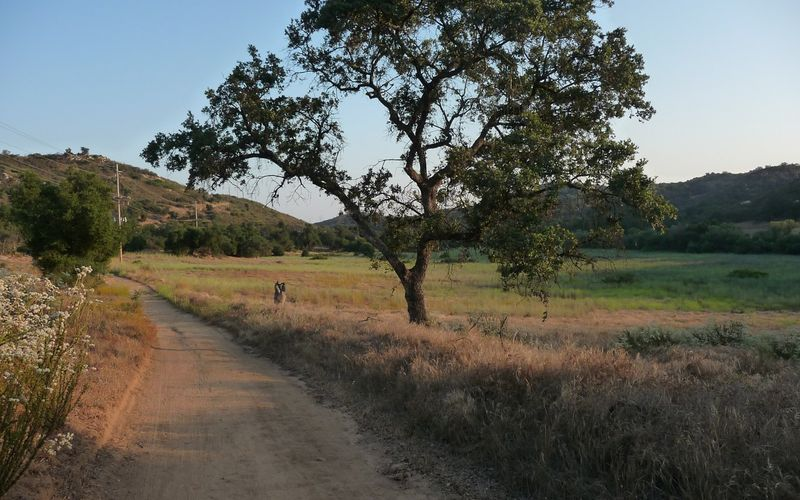
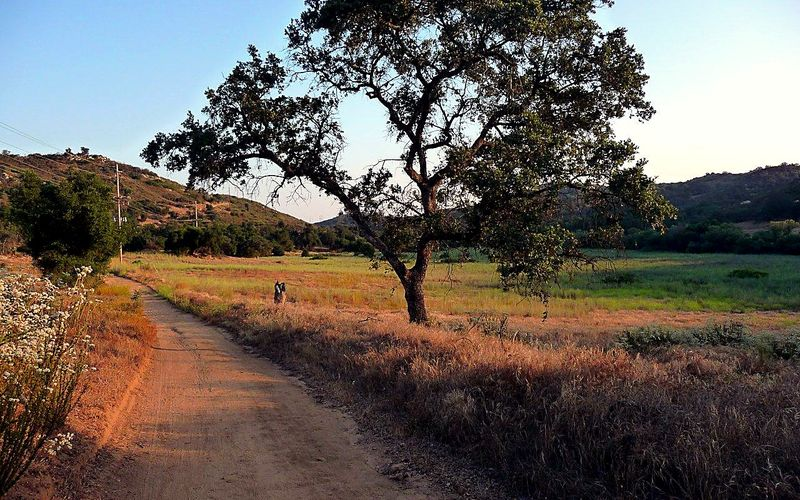
Grade the Valley Center photograph, and fix the stale-derivative bug it exposed
The Valley Center source is a 2008 Panasonic Lumix TZ4 frame and flat
straight out of the camera. Levels, contrast, saturation and a light
unsharp mask: the response curve applied to pixels that were already in the
frame, which is what a darkroom print does. Nothing added, nothing removed.
The field reads green, the golden-hour light is actually present, and the
hills separate from the sky.

Both CC BY and CC BY-SA require indicating that changes were made, not just
naming the author, so every credit now ends with what was done to the
frame. Eleven say "Cropped to fit" — cropping to a 16:10 hero is itself a
change — and Valley Center says "Cropped to fit; colour and contrast
adjusted."

The bug this turned up
----------------------
Replacing valley-center.jpg in place left the OLD valley-center.webp beside
it. components.picture() emits the WebP first, so every browser that can
read WebP would have got the ungraded frame while the JPEG fallback nobody
looks at was correct. Silent, and invisible in the markup.

already_done() skipped the file because a .webp existed. It never asked
whether that .webp was still the right one.

Fixed with a content-hash manifest at site/assets/img/.optimized.json,
committed alongside the images. Two things were tried and rejected first:

  mtime comparison — reintroduces the exact churn already_done() exists to
  prevent. git writes files at checkout time in arbitrary order, so on a
[…]

diff --git a/site/neighborhoods/escondido.html b/site/neighborhoods/escondido.html
@@ -391,7 +391,7 @@
       &rsaquo; Escondido
     </nav>
     <p class="updated">Written by <a href="/agent/sofia-azizi">Sofia Azizi</a>, CA DRE# 02108624 &middot; Updated 2026-07-26</p>
-<p class="photo-credit">Photograph: <a href="https://commons.wikimedia.org/wiki/File:Downtown_Escondido_Grand_%26_Broadway_Intersection.jpg" rel="nofollow noopener" target="_blank">Downtown Escondido Grand &amp; Broadway Intersection</a> by CaliforniaUrbanist, <a href="https://creativecommons.org/licenses/by-sa/4.0/" rel="nofollow noopener" target="_blank">CC BY-SA 4.0</a>. Grand Avenue at Broadway, downtown Escondido, looking north-east toward the mountains.</p>
+<p class="photo-credit">Photograph: <a href="https://commons.wikimedia.org/wiki/File:Downtown_Escondido_Grand_%26_Broadway_Intersection.jpg" rel="nofollow noopener" target="_blank">Downtown Escondido Grand &amp; Broadway Intersection</a> by CaliforniaUrbanist, <a href="https://creativecommons.org/licenses/by-sa/4.0/" rel="nofollow noopener" target="_blank">CC BY-SA 4.0</a>. Grand Avenue at Broadway, downtown Escondido, looking north-east toward the mountains. Cropped to fit.</p>
     <p class="lede">
       What follows is the part of a Escondido search that is hard to look up:
       which tax districts apply, which district assigns the schools, and what

diff --git a/site/neighborhoods/ramona.html b/site/neighborhoods/ramona.html
@@ -383,7 +383,7 @@
       &rsaquo; Ramona
     </nav>
     <p class="updated">Written by <a href="/agent/zohra-azizi">Zohra Azizi</a>, CA DRE# 01992847 &middot; Updated 2026-07-26</p>
-<p class="photo-credit">Photograph: <a href="https://commons.wikimedia.org/wiki/File:MONTECITO_RANCH,_RAMONA,_SAN_DIEGO_COUNTY.jpg" rel="nofollow noopener" target="_blank">Montecito Ranch, Ramona</a> by Jerrye &amp; Roy Klotz, M.D., <a href="https://creativecommons.org/licenses/by-sa/4.0/" rel="nofollow noopener" target="_blank">CC BY-SA 4.0</a>. The 1880s ranch house at Montecito Ranch in Ramona, later owned by the actor James Cagney.</p>
+<p class="photo-credit">Photograph: <a href="https://commons.wikimedia.org/wiki/File:MONTECITO_RANCH,_RAMONA,_SAN_DIEGO_COUNTY.jpg" rel="nofollow noopener" target="_blank">Montecito Ranch, Ramona</a> by Jerrye &amp; Roy Klotz, M.D., <a href="https://creativecommons.org/licenses/by-sa/4.0/" rel="nofollow noopener" target="_blank">CC BY-SA 4.0</a>. The 1880s ranch house at Montecito Ranch in Ramona, later owned by the actor James Cagney. Cropped to fit.</p>
     <p class="lede">
       What follows is the part of a Ramona search that is hard to look up:
       which tax districts apply, which district assigns the schools, and what

diff --git a/site/neighborhoods/carmel-valley.html b/site/neighborhoods/carmel-valley.html
@@ -415,7 +415,7 @@
       &rsaquo; Carmel Valley
     </nav>
     <p class="updated">Written by <a href="/agent/nilab-azizi">Nilab Azizi</a>, CA DRE# 02047962 &middot; Updated 2026-07-26</p>
-<p class="photo-credit">Photograph: <a href="https://commons.wikimedia.org/wiki/File:Carmel_Valley_San_Diego_2.JPG" rel="nofollow noopener" target="_blank">Carmel Valley San Diego</a> by Navirav, <a href="https://creativecommons.org/licenses/by-sa/4.0/" rel="nofollow noopener" target="_blank">CC BY-SA 4.0</a>. Carmel Valley in San Diego, looking north from the south rim across the canyon to the ridgeline development.</p>
+<p class="photo-credit">Photograph: <a href="https://commons.wikimedia.org/wiki/File:Carmel_Valley_San_Diego_2.JPG" rel="nofollow noopener" target="_blank">Carmel Valley San Diego</a> by Navirav, <a href="https://creativecommons.org/licenses/by-sa/4.0/" rel="nofollow noopener" target="_blank">CC BY-SA 4.0</a>. Carmel Valley in San Diego, looking north from the south rim across the canyon to the ridgeline development. Cropped to fit.</p>
     <p class="lede">
       What follows is the part of a Carmel Valley search that is hard to look up:
       which tax districts apply, which district assigns the schools, and what

diff --git a/site/neighborhoods/encinitas.html b/site/neighborhoods/encinitas.html
@@ -383,7 +383,7 @@
       &rsaquo; Encinitas
     </nav>
     <p class="updated">Written by <a href="/agent/sofia-azizi">Sofia Azizi</a>, CA DRE# 02108624 &middot; Updated 2026-07-26</p>
-<p class="photo-credit">Photograph: <a href="https://commons.wikimedia.org/wiki/File:Boathouses,_Encinitas.JPG" rel="nofollow noopener" target="_blank">Boathouses, Encinitas</a> by Invertzoo, <a href="https://creativecommons.org/licenses/by-sa/3.0/" rel="nofollow noopener" target="_blank">CC BY-SA 3.0</a>. The SS Encinitas and SS Moonlight — two houses built in the shape of boats in the late 1920s, on Third Street.</p>
+<p class="photo-credit">Photograph: <a href="https://commons.wikimedia.org/wiki/File:Boathouses,_Encinitas.JPG" rel="nofollow noopener" target="_blank">Boathouses, Encinitas</a> by Invertzoo, <a href="https://creativecommons.org/licenses/by-sa/3.0/" rel="nofollow noopener" target="_blank">CC BY-SA 3.0</a>. The SS Encinitas and SS Moonlight — two houses built in the shape of boats in the late 1920s, on Third Street. Cropped to fit.</p>
     <p class="lede">
       What follows is the part of a Encinitas search that is hard to look up:
       which tax districts apply, which district assigns the schools, and what

diff --git a/site/neighborhoods/fallbrook.html b/site/neighborhoods/fallbrook.html
@@ -383,7 +383,7 @@
       &rsaquo; Fallbrook
     </nav>
     <p class="updated">Written by <a href="/agent/sofia-azizi">Sofia Azizi</a>, CA DRE# 02108624 &middot; Updated 2026-07-26</p>
-<p class="photo-credit">Photograph: <a href="https://commons.wikimedia.org/wiki/File:180214_17_Fallbrook,_CA_-_Walk_around_Ross_Lake,_Lynda_Lane.jpg" rel="nofollow noopener" target="_blank">Lynda Lane, Fallbrook</a> by cultivar413, <a href="https://creativecommons.org/licenses/by/2.0/" rel="nofollow noopener" target="_blank">CC BY 2.0</a>. A lane climbing past a hillside house near Ross Lake in Fallbrook.</p>
+<p class="photo-credit">Photograph: <a href="https://commons.wikimedia.org/wiki/File:180214_17_Fallbrook,_CA_-_Walk_around_Ross_Lake,_Lynda_Lane.jpg" rel="nofollow noopener" target="_blank">Lynda Lane, Fallbrook</a> by cultivar413, <a href="https://creativecommons.org/licenses/by/2.0/" rel="nofollow noopener" target="_blank">CC BY 2.0</a>. A lane climbing past a hillside house near Ross Lake in Fallbrook. Cropped to fit.</p>
     <p class="lede">
       What follows is the part of a Fallbrook search that is hard to look up:
       which tax districts apply, which district assigns the schools, and what

diff --git a/site/neighborhoods/carlsbad.html b/site/neighborhoods/carlsbad.html
@@ -383,7 +383,7 @@
       &rsaquo; Carlsbad
     </nav>
     <p class="updated">Written by <a href="/agent/sofia-azizi">Sofia Azizi</a>, CA DRE# 02108624 &middot; Updated 2026-07-26</p>
-<p class="photo-credit">Photograph: <a href="https://commons.wikimedia.org/wiki/File:50D.CarlsbadSantaFeTrainStation.jpg" rel="nofollow noopener" target="_blank">Carlsbad Santa Fe Depot</a> by Jiobrien, <a href="https://creativecommons.org/licenses/by-sa/3.0/" rel="nofollow noopener" target="_blank">CC BY-SA 3.0</a>. The Santa Fe Depot in Carlsbad Village, now the visitor centre, beside the COASTER line.</p>
+<p class="photo-credit">Photograph: <a href="https://commons.wikimedia.org/wiki/File:50D.CarlsbadSantaFeTrainStation.jpg" rel="nofollow noopener" target="_blank">Carlsbad Santa Fe Depot</a> by Jiobrien, <a href="https://creativecommons.org/licenses/by-sa/3.0/" rel="nofollow noopener" target="_blank">CC BY-SA 3.0</a>. The Santa Fe Depot in Carlsbad Village, now the visitor centre, beside the COASTER line. Cropped to fit.</p>
     <p class="lede">
       What follows is the part of a Carlsbad search that is hard to look up:
       which tax districts apply, which district assigns the schools, and what

diff --git a/site/neighborhoods/valley-center.html b/site/neighborhoods/valley-center.html
@@ -383,7 +383,7 @@
       &rsaquo; Valley Center
     </nav>
     <p class="updated">Written by <a href="/agent/nilab-azizi">Nilab Azizi</a>, CA DRE# 02047962 &middot; Updated 2026-07-26</p>
-<p class="photo-credit">Photograph: <a href="https://commons.wikimedia.org/wiki/File:Valley_Center.jpg" rel="nofollow noopener" target="_blank">Valley Center, California</a> by Vcdrummer, <a href="https://creativecommons.org/licenses/by/3.0/" rel="nofollow noopener" target="_blank">CC BY 3.0</a>. A dirt road past a coast live oak in the grassland and low hills of Valley Center.</p>
+<p class="photo-credit">Photograph: <a href="https://commons.wikimedia.org/wiki/File:Valley_Center.jpg" rel="nofollow noopener" target="_blank">Valley Center, California</a> by Vcdrummer, <a href="https://creativecommons.org/licenses/by/3.0/" rel="nofollow noopener" target="_blank">CC BY 3.0</a>. A dirt road past a coast live oak in the grassland and low hills of Valley Center. Cropped to fit; colour and contrast adjusted.</p>
     <p class="lede">
       What follows is the part of a Valley Center search that is hard to look up:
       which tax districts apply, which district assigns the schools, and what

diff --git a/site/neighborhoods/vista.html b/site/neighborhoods/vista.html
@@ -383,7 +383,7 @@
       &rsaquo; Vista
     </nav>
     <p class="updated">Written by <a href="/agent/sofia-azizi">Sofia Azizi</a>, CA DRE# 02108624 &middot; Updated 2026-07-26</p>
-<p class="photo-credit">Photograph: <a href="https://commons.wikimedia.org/wiki/File:Alta_Vista_Gardens_-_Dec_2020_-_Pic02.jpg" rel="nofollow noopener" target="_blank">Alta Vista Gardens</a> by Alan Islas, <a href="https://creativecommons.org/licenses/by-sa/4.0/" rel="nofollow noopener" target="_blank">CC BY-SA 4.0</a>. Alta Vista Gardens, the botanical garden on Brengle Terrace in Vista.</p>
+<p class="photo-credit">Photograph: <a href="https://commons.wikimedia.org/wiki/File:Alta_Vista_Gardens_-_Dec_2020_-_Pic02.jpg" rel="nofollow noopener" target="_blank">Alta Vista Gardens</a> by Alan Islas, <a href="https://creativecommons.org/licenses/by-sa/4.0/" rel="nofollow noopener" target="_blank">CC BY-SA 4.0</a>. Alta Vista Gardens, the botanical garden on Brengle Terrace in Vista. Cropped to fit.</p>
     <p class="lede">
       What follows is the part of a Vista search that is hard to look up:
       which tax districts apply, which district assigns the schools, and what

diff --git a/site/neighborhoods/poway.html b/site/neighborhoods/poway.html
@@ -383,7 +383,7 @@
       &rsaquo; Poway
     </nav>
     <p class="updated">Written by <a href="/agent/zohra-azizi">Zohra Azizi</a>, CA DRE# 01992847 &middot; Updated 2026-07-26</p>
-<p class="photo-credit">Photograph: <a href="https://commons.wikimedia.org/wiki/File:Niles_Nelson_House-3.jpg" rel="nofollow noopener" target="_blank">Niles Nelson House</a> by Visitor7, <a href="https://creativecommons.org/licenses/by-sa/3.0/" rel="nofollow noopener" target="_blank">CC BY-SA 3.0</a>. The Niles Nelson House, an original 1918 Poway farmhouse relocated to Old Poway Park.</p>
+<p class="photo-credit">Photograph: <a href="https://commons.wikimedia.org/wiki/File:Niles_Nelson_House-3.jpg" rel="nofollow noopener" target="_blank">Niles Nelson House</a> by Visitor7, <a href="https://creativecommons.org/licenses/by-sa/3.0/" rel="nofollow noopener" target="_blank">CC BY-SA 3.0</a>. The Niles Nelson House, an original 1918 Poway farmhouse relocated to Old Poway Park. Cropped to fit.</p>
     <p class="lede">
       What follows is the part of a Poway search that is hard to look up:
       which tax districts apply, which district assigns the schools, and what

diff --git a/site/neighborhoods/oceanside.html b/site/neighborhoods/oceanside.html
@@ -383,7 +383,7 @@
       &rsaquo; Oceanside
     </nav>
     <p class="updated">Written by <a href="/agent/zohra-azizi">Zohra Azizi</a>, CA DRE# 01992847 &middot; Updated 2026-07-26</p>
-<p class="photo-credit">Photograph: <a href="https://commons.wikimedia.org/wiki/File:Oceanside,_California_01.jpg" rel="nofollow noopener" target="_blank">Oceanside, California 01</a> by Tgormanbrown, <a href="https://creativecommons.org/licenses/by-sa/4.0/" rel="nofollow noopener" target="_blank">CC BY-SA 4.0</a>. The beach and palms at Oceanside, with the pier beyond.</p>
+<p class="photo-credit">Photograph: <a href="https://commons.wikimedia.org/wiki/File:Oceanside,_California_01.jpg" rel="nofollow noopener" target="_blank">Oceanside, California 01</a> by Tgormanbrown, <a href="https://creativecommons.org/licenses/by-sa/4.0/" rel="nofollow noopener" target="_blank">CC BY-SA 4.0</a>. The beach and palms at Oceanside, with the pier beyond. Cropped to fit.</p>
     <p class="lede">
       What follows is the part of a Oceanside search that is hard to look up:
       which tax districts apply, which district assigns the schools, and what

diff --git a/site/neighborhoods/san-marcos.html b/site/neighborhoods/san-marcos.html
@@ -383,7 +383,7 @@
       &rsaquo; San Marcos
     </nav>
     <p class="updated">Written by <a href="/agent/zohra-azizi">Zohra Azizi</a>, CA DRE# 01992847 &middot; Updated 2026-07-26</p>
-<p class="photo-credit">Photograph: <a href="https://commons.wikimedia.org/wiki/File:Cal_State_San_Marcos_library.jpg" rel="nofollow noopener" target="_blank">Cal State San Marcos library</a> by Eamuscatuli at English Wikipedia, Public domain. The library at California State University San Marcos.</p>
+<p class="photo-credit">Photograph: <a href="https://commons.wikimedia.org/wiki/File:Cal_State_San_Marcos_library.jpg" rel="nofollow noopener" target="_blank">Cal State San Marcos library</a> by Eamuscatuli at English Wikipedia, Public domain. The library at California State University San Marcos. Cropped to fit.</p>
     <p class="lede">
       What follows is the part of a San Marcos search that is hard to look up:
       which tax districts apply, which district assigns the schools, and what

diff --git a/site/neighborhoods/4s-ranch.html b/site/neighborhoods/4s-ranch.html
@@ -407,7 +407,7 @@
       &rsaquo; 4S Ranch
     </nav>
     <p class="updated">Written by <a href="/agent/sofia-azizi">Sofia Azizi</a>, CA DRE# 02108624 &middot; Updated 2026-07-26</p>
-<p class="photo-credit">Photograph: <a href="https://commons.wikimedia.org/wiki/File:4sranch.JPG" rel="nofollow noopener" target="_blank">4S Ranch from Black Mountain</a> by Peard33, Public domain. 4S Ranch seen from Black Mountain, looking across the community to the hills beyond.</p>
+<p class="photo-credit">Photograph: <a href="https://commons.wikimedia.org/wiki/File:4sranch.JPG" rel="nofollow noopener" target="_blank">4S Ranch from Black Mountain</a> by Peard33, Public domain. 4S Ranch seen from Black Mountain, looking across the community to the hills beyond. Cropped to fit.</p>
     <p class="lede">
       What follows is the part of a 4S Ranch search that is hard to look up:
       which tax districts apply, which district assigns the schools, and what
